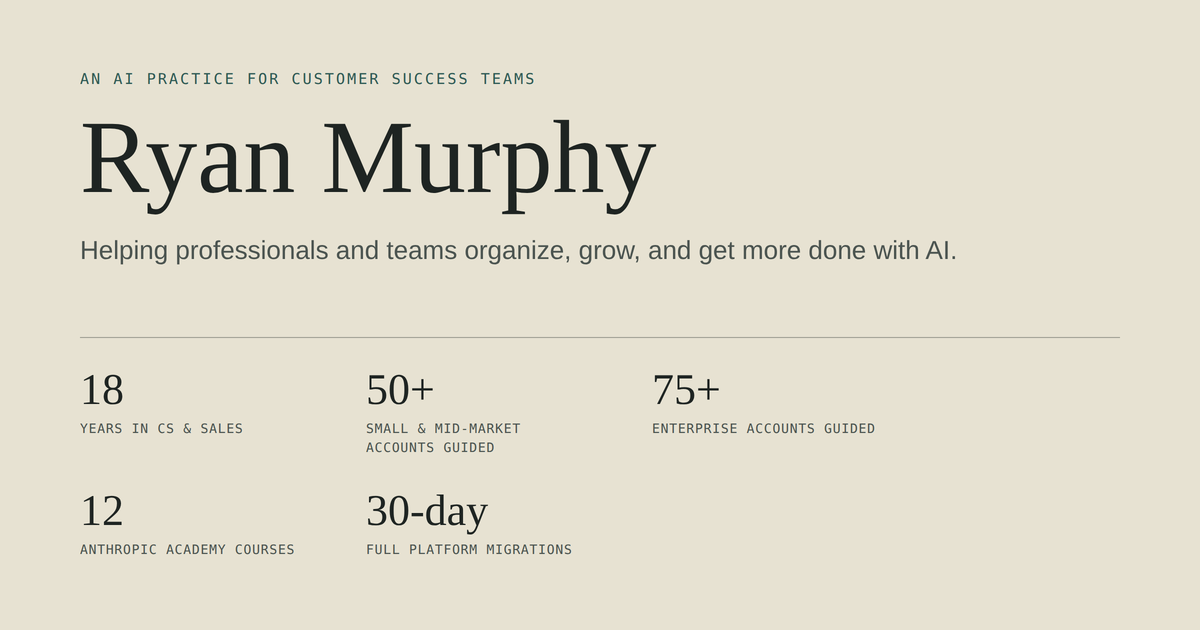
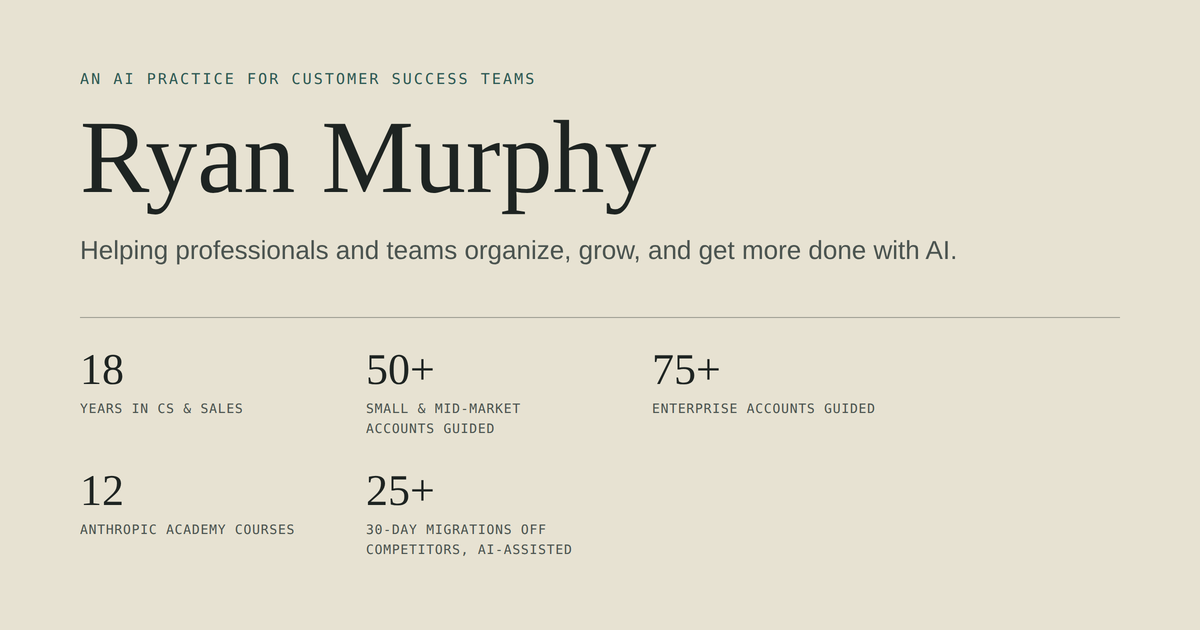
Add files via upload

diff --git a/index.html b/index.html
@@ -647,8 +647,8 @@
           <span class="hero-stat-label">Anthropic Academy courses</span>
         </div>
         <div class="hero-stat">
-          <span class="hero-stat-num">30-day</span>
-          <span class="hero-stat-label">Full platform migrations</span>
+          <span class="hero-stat-num">25+</span>
+          <span class="hero-stat-label">30-day migrations off competitors, AI-assisted</span>
         </div>
       </div>
     </div>
@@ -758,11 +758,11 @@
           </div>
           <div>
             <span class="kicker">Approach</span>
-            <p>Ran both in parallel — a tight 30-day implementation plan for the new customer, and a structured multi-month plan for the historical backlog.</p>
+            <p>Ran both in parallel — a tight, AI-assisted 30-day implementation plan for the new customer, and a structured multi-month plan for the historical backlog.</p>
           </div>
           <div>
             <span class="kicker">Outcome</span>
-            <p>New customer live in 30 days; the historical migration completed cleanly over the following months.</p>
+            <p>New customer live in 30 days — one of 25+ AI-assisted, 30-day platform migrations off competitors' services delivered over the years; the historical migration completed cleanly over the following months.</p>
           </div>
         </div>
       </div>
@@ -1180,7 +1180,7 @@ const SITE_REFERENCE = [
   '',
   'ABOUT: Ryan believes the people closest to the customer are usually best positioned to make AI adoption actually stick, not a separate AI team or IT — so his practice is finding where AI removes real friction, building it, and teaching the people around him to run it without him. He distills almost everything he builds down to four repeatable moves, which are not customer-success-specific: (1) Read before you act — pull scattered context into one brief before a conversation that matters, and flag disagreements between sources rather than picking the comfortable answer. (2) Restart what\'s stalled — find what\'s actually gone quiet, bring something useful to the table, and draft (never auto-send) the outreach yourself. (3) Template what you\'d rewrite — turn a recurring judgment call into something repeatable instead of starting from scratch each time. (4) Schedule what you\'d redo by hand — put a recurring check on autopilot instead of remembering to do it. Day to day, that means leading customer success and platform implementation at a privacy/compliance SaaS company, where he owns a book of 50+ enterprise accounts, keeping the large majority in healthy status while expanding most into 3+ product lines. He built the company\'s "AI Prompt Library," an eleven-section AI prompt guide now used company-wide, and co-hosts the "Privacy in Practice" customer webinar series. He is currently deepening his own hands-on fluency with agentic AI tools like Claude Code and multi-agent workflows, and writes about it in the Notes section. Claude and Claude Code are his day-to-day tools for building, but his practice isn\'t built around one vendor: he also has regular hands-on experience with ChatGPT/OpenAI (daily drafting, custom GPTs, data analysis), Microsoft Copilot (both M365 Copilot and GitHub Copilot), Google Gemini (inside Google Workspace), and Cursor and Replit for prototyping internal tools. This platform breadth is listed in the Credentials section under "Platforms & Tools."',
   '',
-  'TRACK RECORD: Built and shipped an AI Prompt Library company-wide, now referenced in the company\'s Help Center and customer webinars. Co-presents the "Privacy in Practice" webinar series on AI in privacy work. Led a cross-region data migration in about 30 minutes using AI-assisted tooling. Delivered a full platform migration inside a 30-day window for a new enterprise customer, plus a separate multi-month project moving 200+ historical rights requests off a competitor\'s platform. Built an AI-driven account re-engagement workflow now used team-wide and cited by leadership.',
+  'TRACK RECORD: Built and shipped an AI Prompt Library company-wide, now referenced in the company\'s Help Center and customer webinars. Co-presents the "Privacy in Practice" webinar series on AI in privacy work. Led a cross-region data migration in about 30 minutes using AI-assisted tooling. Over his career, he has delivered 25+ full platform migrations off competitors\' services, each completed within a 30-day window using AI-assisted tooling — including one for a new enterprise customer, run in parallel with a separate multi-month project moving 200+ historical rights requests off a competitor\'s platform. Built an AI-driven account re-engagement workflow now used team-wide and cited by leadership.',
   '',
   'FOCUS AREAS: (1) Onboarding — time-to-value, not just go-live. (2) Adoption — turning early wins into renewals. (3) Enablement — building AI prompt libraries and workflows people actually use, on whatever AI platform a team has already standardized on. (4) Partnership — connecting the platform to outcomes leadership cares about.',
   '',
